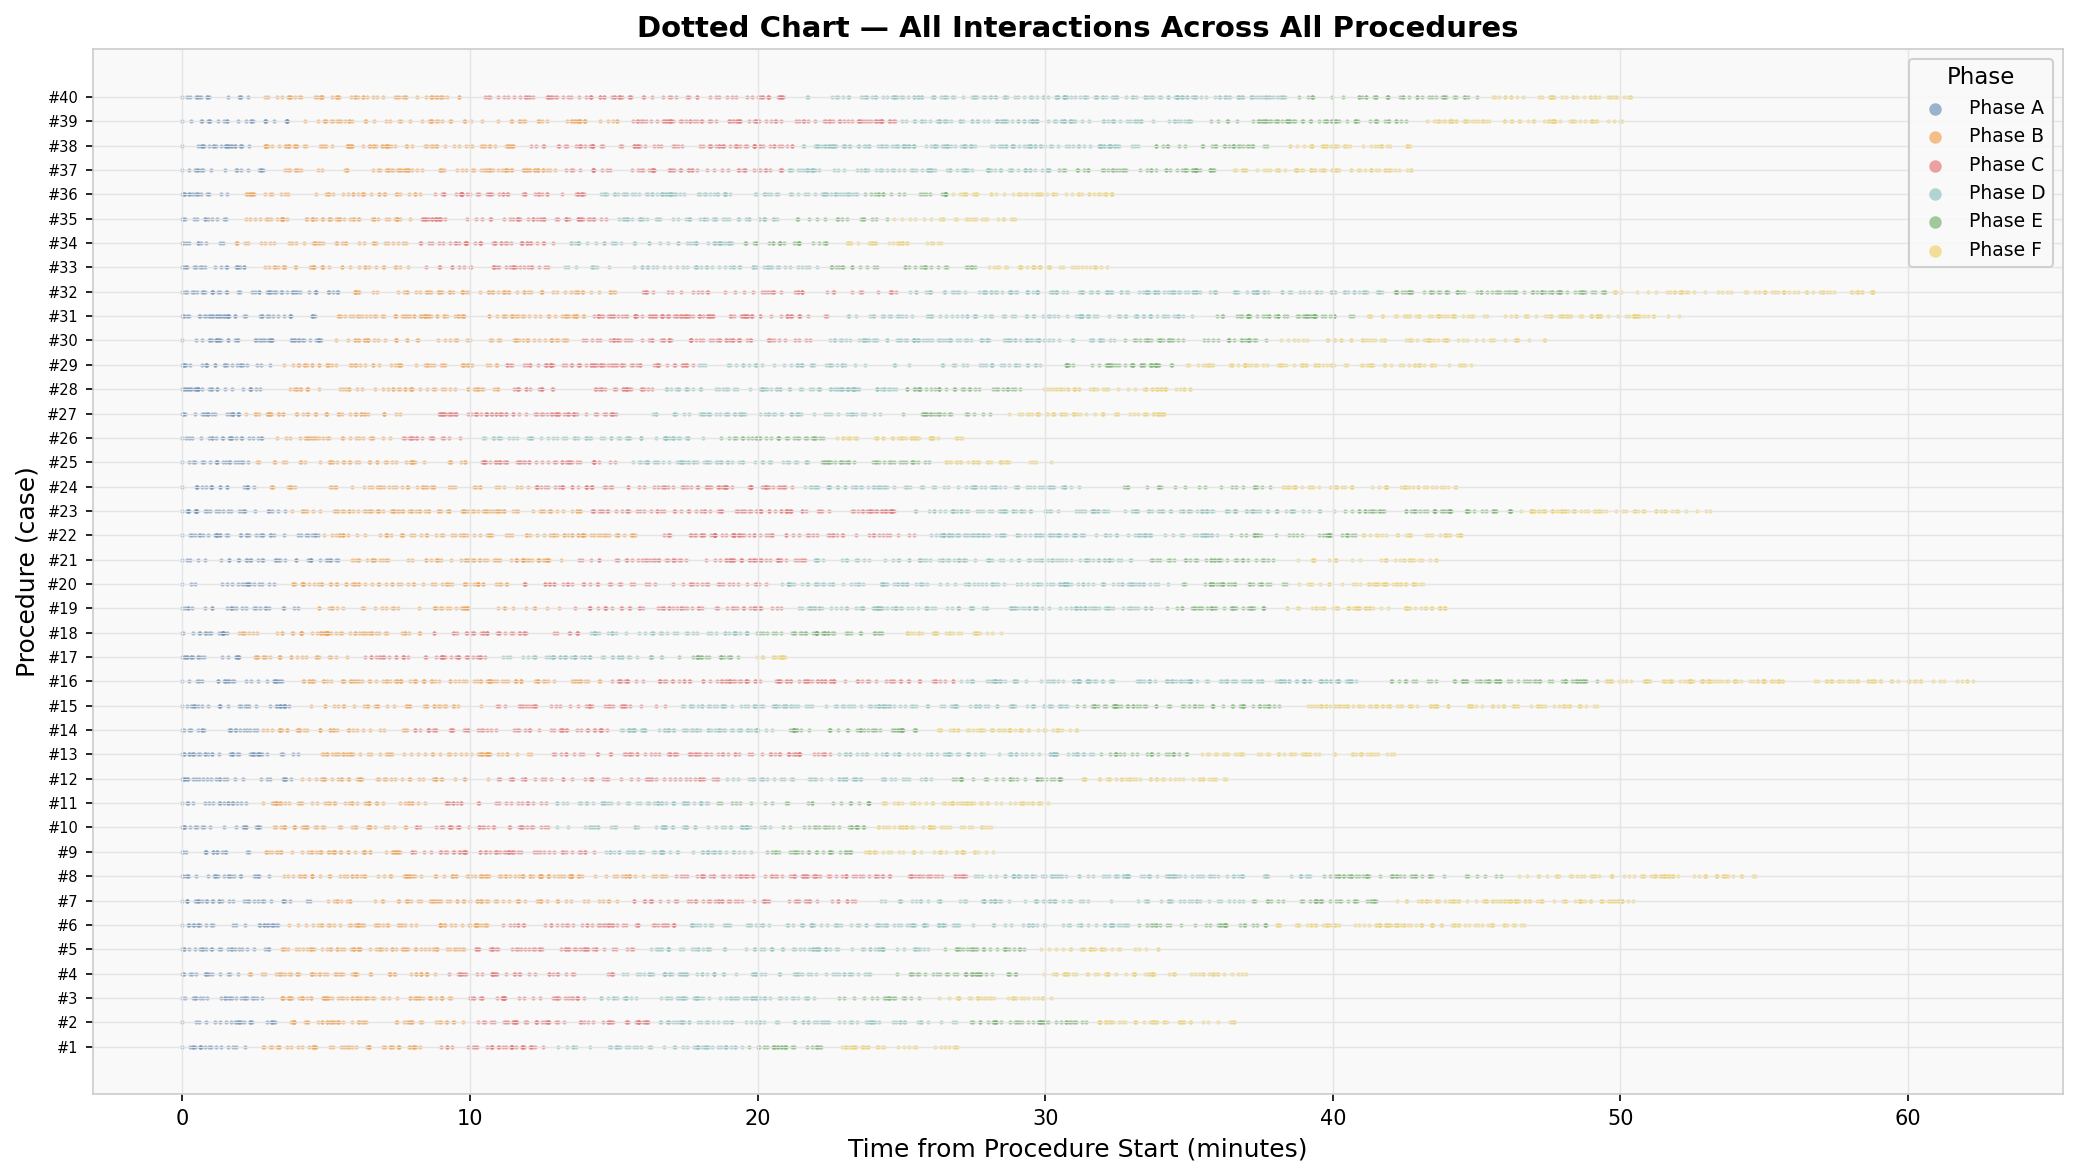
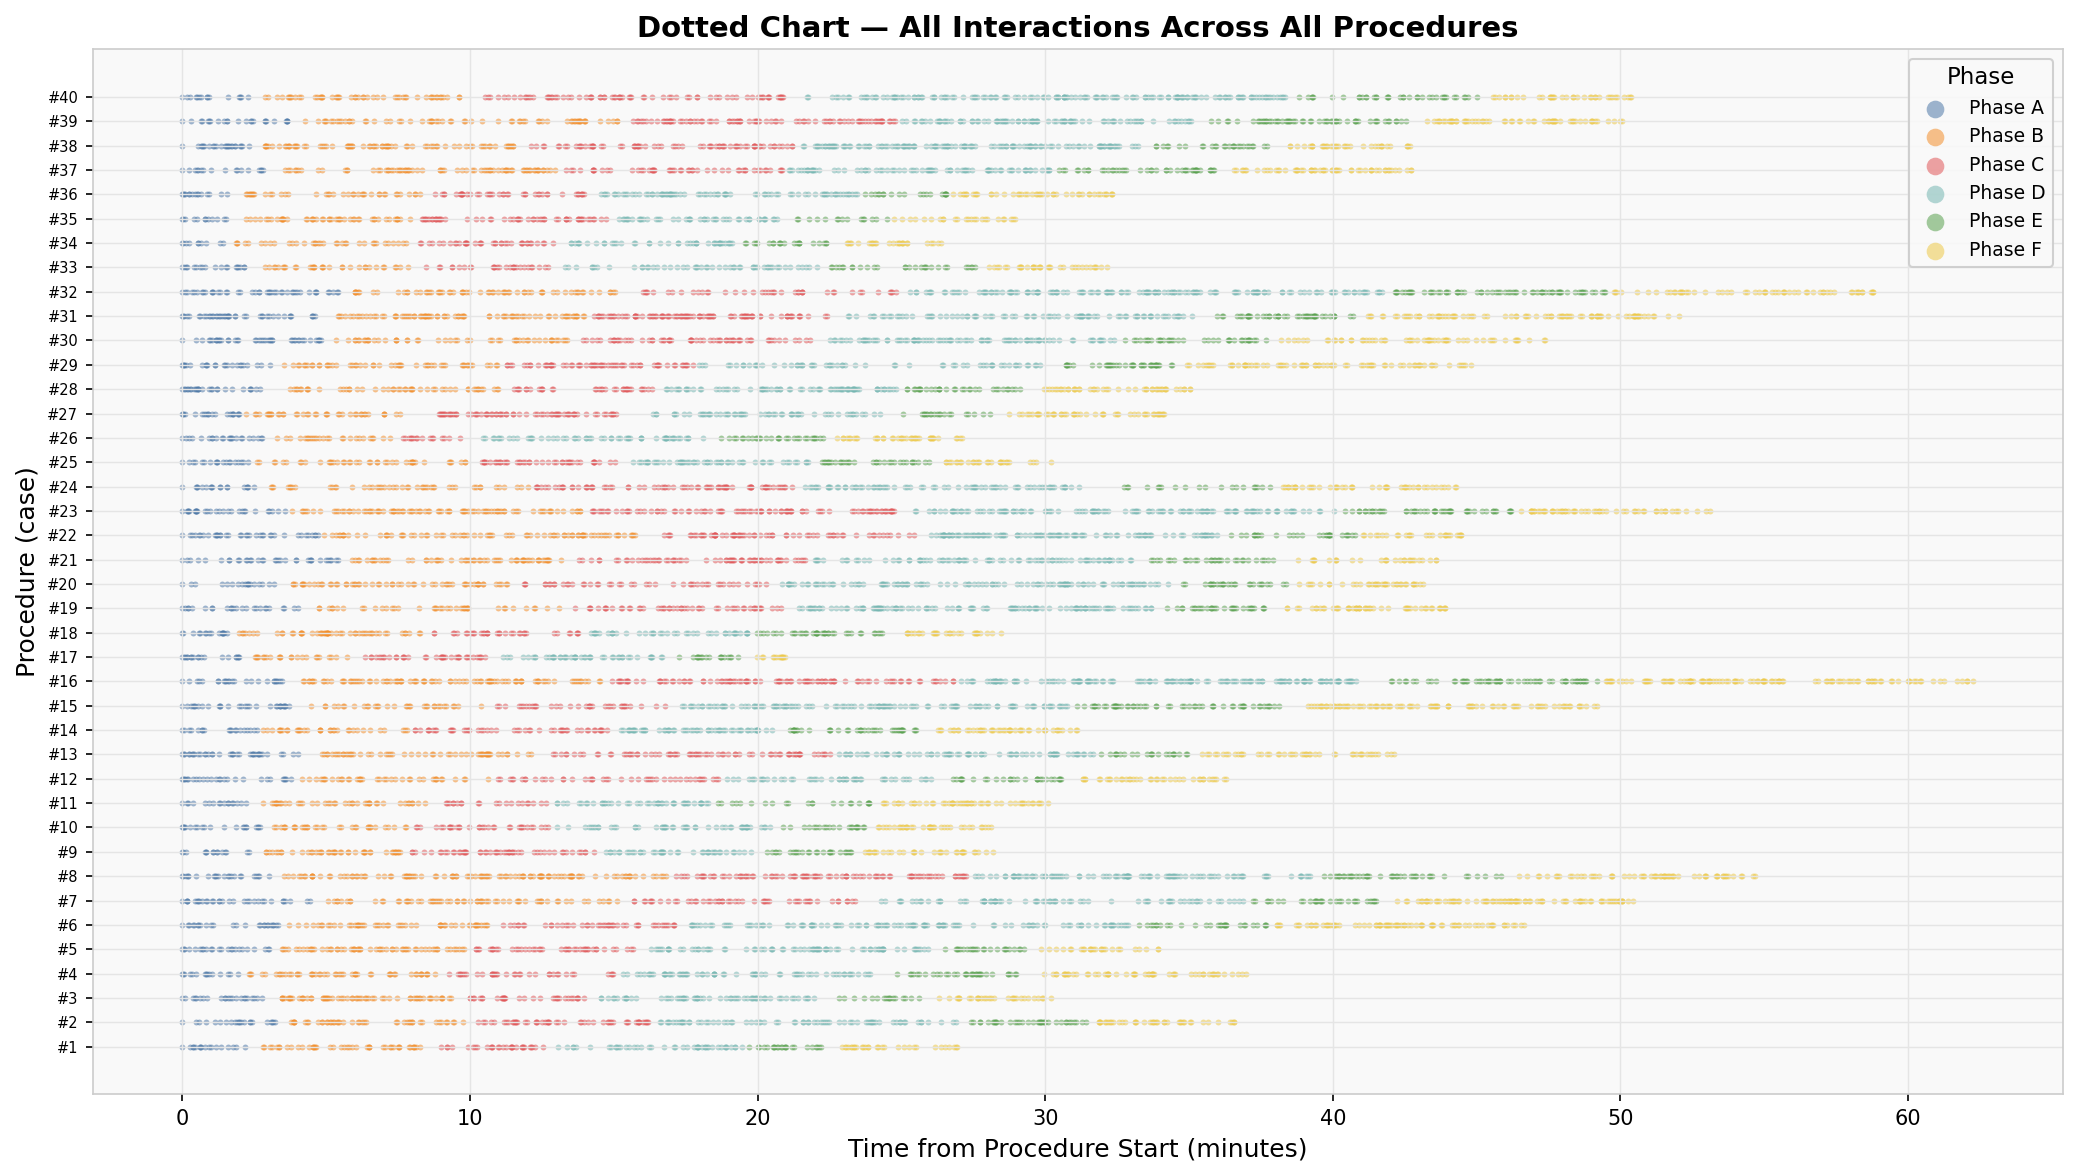
Update hero text + double dotted chart dot size
- Hero eyebrow changed to "Prepared for JG by Dave W"
- Hero description updated with fake-data disclaimer and research context
- Dotted chart dot size doubled (s=4 → s=8)
- Regenerated dotted_chart.png and variants.png

diff --git a/index.html b/index.html
@@ -655,13 +655,11 @@
 <!-- ── Hero ─────────────────────────────────────────────────────────────── -->
 <div class="hero">
   <div class="hero-inner">
-    <div class="hero-eyebrow">Visualization Showcase</div>
+    <div class="hero-eyebrow">Prepared for JG by Dave W</div>
     <h1>Process Mining &amp; Workflow Data Visualization</h1>
     <p>
-      Eight distinct visualization techniques for exploring how operators
-      move through multi-phase workflows — from high-level flow maps to
-      granular interaction-level analysis. Each visualization type surfaces
-      a fundamentally different class of insight.
+      The data shown is entirely fake, generically based on a fictional multi-phased heart surgery software.
+      This is primarily to illustrate the most common visualizations that are used in UI analysis from research.
     </p>
     <div class="hero-bottom">
       <div class="stat-row">

diff --git a/generate_charts.py b/generate_charts.py
@@ -83,7 +83,7 @@ def chart_dotted():
         starts = df.groupby("case_id")["timestamp"].min()
         x = [(sub.iloc[j]["timestamp"] - starts[sub.iloc[j]["case_id"]]).total_seconds() / 60
              for j in range(len(sub))]
-        ax.scatter(x, y, c=PHASE_COLORS[phase], s=4, alpha=0.55, label=phase, linewidths=0)
+        ax.scatter(x, y, c=PHASE_COLORS[phase], s=8, alpha=0.55, label=phase, linewidths=0)
 
     ax.set_xlabel("Time from Procedure Start (minutes)")
     ax.set_ylabel("Procedure (case)")
